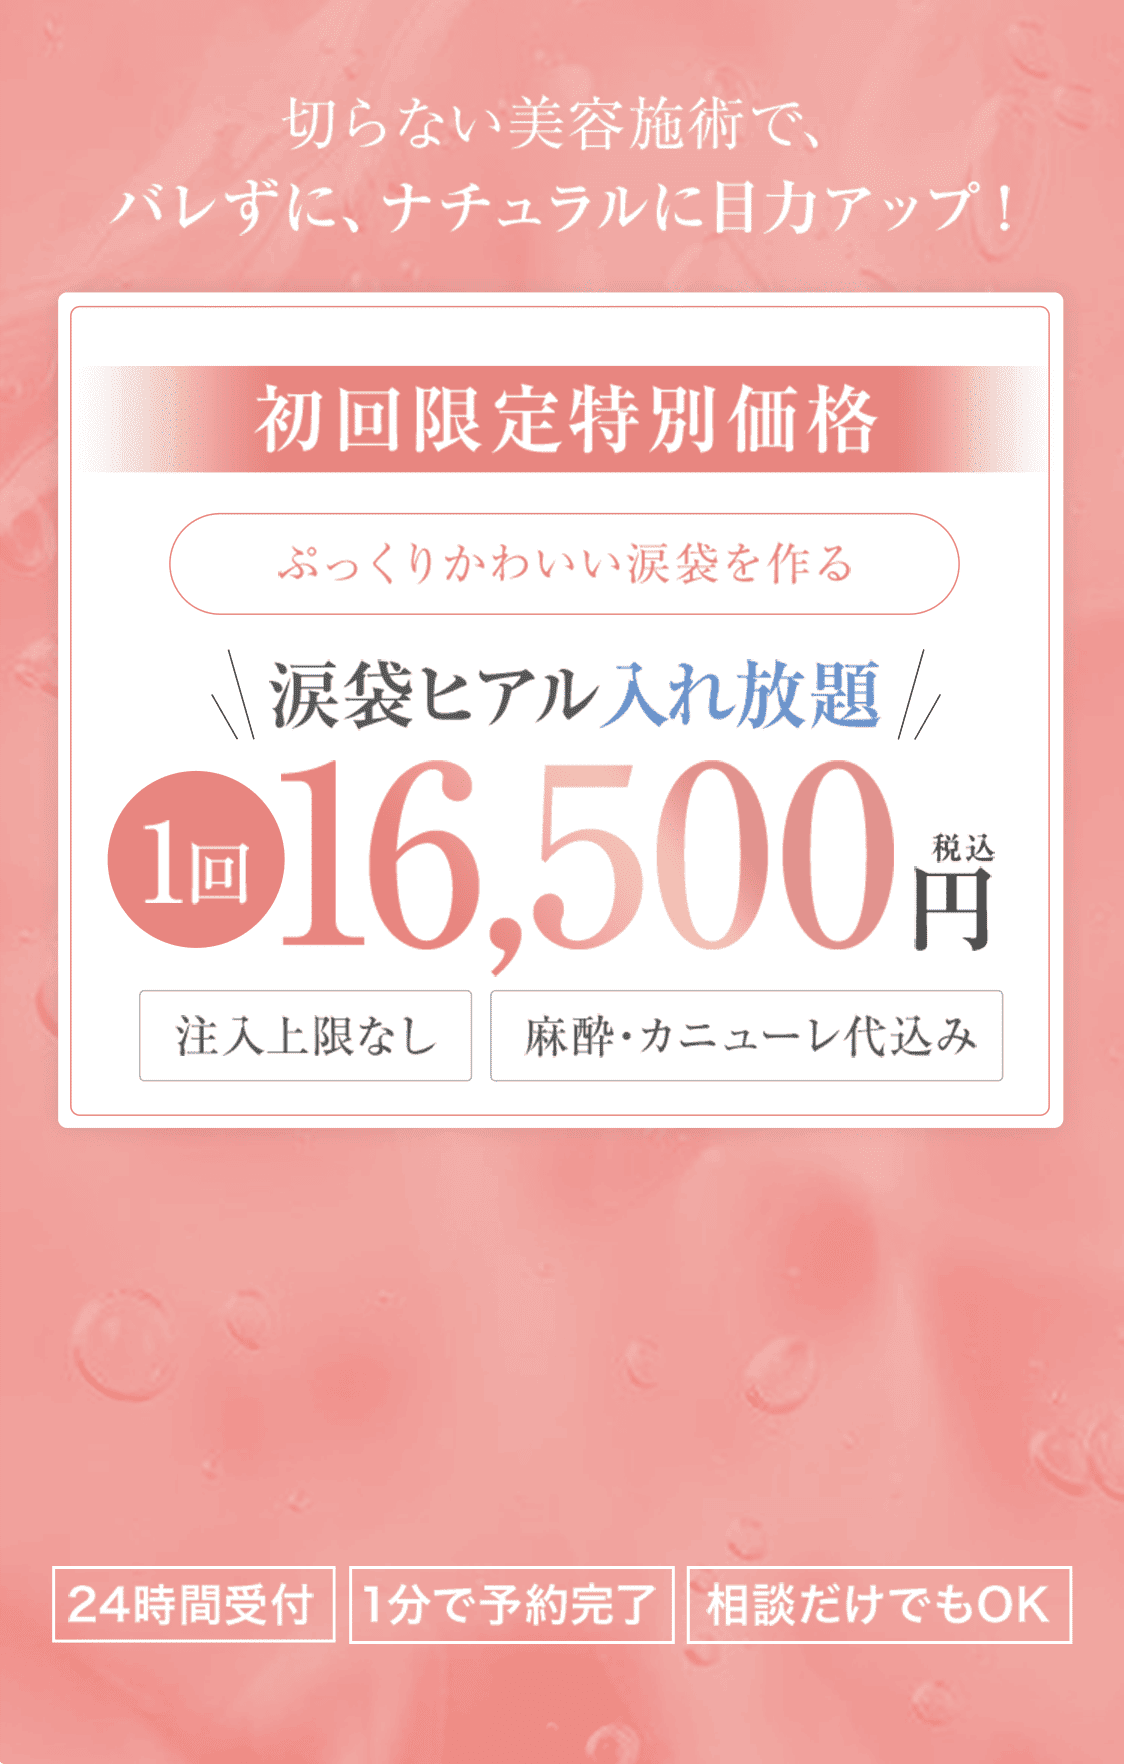
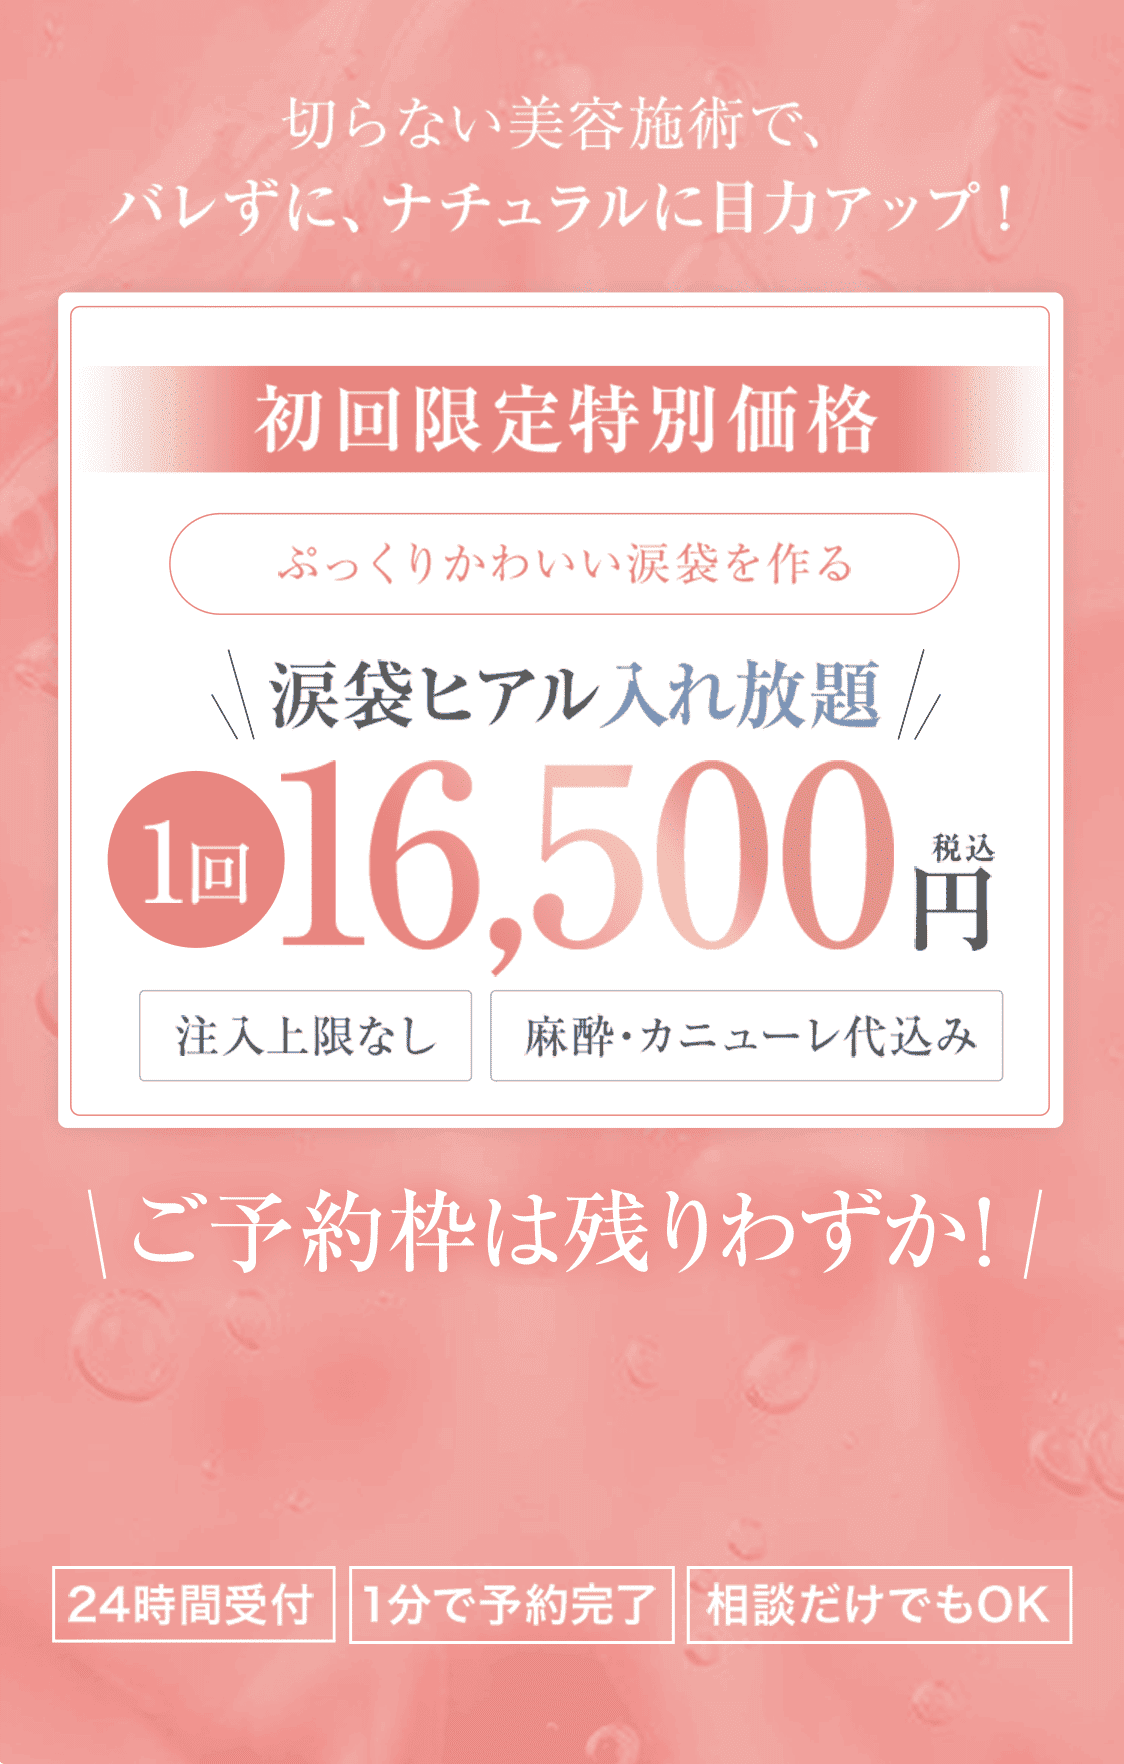
Add files via upload

Changed region(s): [[0.218, 0.6548, 0.903, 0.7171], [0.6539, 0.3741, 0.7785, 0.4053], [0.1246, 0.6548, 0.1868, 0.7171]]

diff --git a/index.html b/index.html
@@ -14,12 +14,12 @@
         })(window, document, 'script', 'dataLayer', 'GTM-PXBPDZP');</script>
     <!-- End Google Tag Manager -->
     <meta name="viewport" content="width=device-width, initial-scale=1.0">
-    <meta name="description" content="フィラークリニックは、ヒアルロン酸注入やボトックス注射などの美容医療を提供するクリニックです。完全オーダーメイドのヒアルロン酸注入で自然な美しさを叶えます。">
-    <meta name="keywords" content="フィラークリニック, ヒアルロン酸注入, 骨格診断, オーダーメイド">
-    <title>オーダーメイドのヒアルロン酸注入｜フィラークリニック</title>
-    <meta property="og:title" content="オーダーメイドのヒアルロン酸注入｜フィラークリニック">
+    <meta name="description" content="自然で立体的な涙袋をつくる涙袋ヒアルロン酸注射。一人ひとりの目の形や骨格に合わせたオーダーメイドデザインで、理想の目元へ導きます。痛みに配慮した施術で直後から自然な仕上がりに。まずはお気軽にご相談ください。">
+    <meta name="keywords" content="フィラークリニック, 涙袋ヒアルロン酸注射">
+    <title>【公式】涙袋ヒアルロン酸注射で魅力的な目元へ｜デザイン重視の注入専門美容クリニック</title>
+    <meta property="og:title" content="【公式】涙袋ヒアルロン酸注射で魅力的な目元へ｜デザイン重視の注入専門美容クリニック">
     <meta property="og:description"
-        content="フィラークリニックは、ヒアルロン酸注入やボトックス注射などの美容医療を提供するクリニックです。完全オーダーメイドのヒアルロン酸注入で自然な美しさを叶えます。">
+        content="自然で立体的な涙袋をつくる涙袋ヒアルロン酸注射。一人ひとりの目の形や骨格に合わせたオーダーメイドデザインで、理想の目元へ導きます。痛みに配慮した施術で直後から自然な仕上がりに。まずはお気軽にご相談ください。">
     <meta property="og:type" content="website">
     <!-- <link rel="icon" href="img/favicon.ico"> -->
     <!-- google fonts -->
@@ -157,7 +157,7 @@
                                     </div>
                                     <iframe
                                         src="https://www.google.com/maps/embed?pb=!1m18!1m12!1m3!1d3240.3608119677383!2d139.7026191!3d35.692737699999995!2m3!1f0!2f0!3f0!3m2!1i1024!2i768!4f13.1!3m3!1m2!1s0x60188cd9f532e0d7%3A0x693f1f0352a2f36c!2z44CSMTYwLTAwMjIg5p2x5Lqs6YO95paw5a6_5Yy65paw5a6_77yT5LiB55uu77yR77yZ4oiS77yU!5e0!3m2!1sja!2sjp!4v1773405697507!5m2!1sja!2sjp"
-                                        width="600" height="450" style="border:0;" allowfullscreen=""  loading="lazy"
+                                        width="600" height="450" style="border:0;" allowfullscreen="" loading="lazy"
                                         referrerpolicy="no-referrer-when-downgrade"></iframe>
                                 </div>
                             </div>

diff --git a/css/style.scss b/css/style.scss
@@ -67,6 +67,11 @@ li {
         .prev-arrow {
             left: -20px;
 
+            @media screen and (max-width: 250px) {
+                left: -15px;
+            }
+
+
             &::before {
                 position: absolute;
                 top: 50%;
@@ -82,6 +87,10 @@ li {
 
         .next-arrow {
             right: -20px;
+
+            @media screen and (max-width: 250px) {
+                right: -15px;
+            }
 
             &::before {
                 position: absolute;
@@ -206,7 +215,7 @@ li {
 
     .sec09-cta {
         position: absolute;
-        top: 74%;
+        top: 74.5%;
         left: 50%;
         transform: translateX(-50%);
         width: 94%;

diff --git a/css/style.css b/css/style.css
@@ -58,6 +58,11 @@ li {
 .slick .slider .prev-arrow {
   left: -20px;
 }
+@media screen and (max-width: 250px) {
+  .slick .slider .prev-arrow {
+    left: -15px;
+  }
+}
 .slick .slider .prev-arrow::before {
   position: absolute;
   top: 50%;
@@ -71,6 +76,11 @@ li {
 }
 .slick .slider .next-arrow {
   right: -20px;
+}
+@media screen and (max-width: 250px) {
+  .slick .slider .next-arrow {
+    right: -15px;
+  }
 }
 .slick .slider .next-arrow::before {
   position: absolute;
@@ -170,7 +180,7 @@ li {
 }
 .sec09 .sec09-cta {
   position: absolute;
-  top: 74%;
+  top: 74.5%;
   left: 50%;
   transform: translateX(-50%);
   width: 94%;
